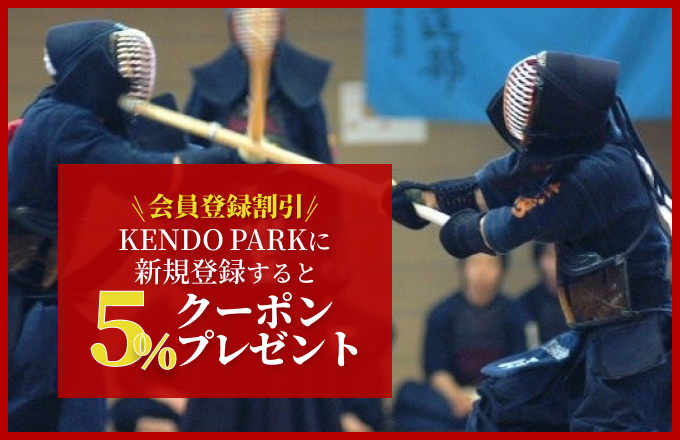
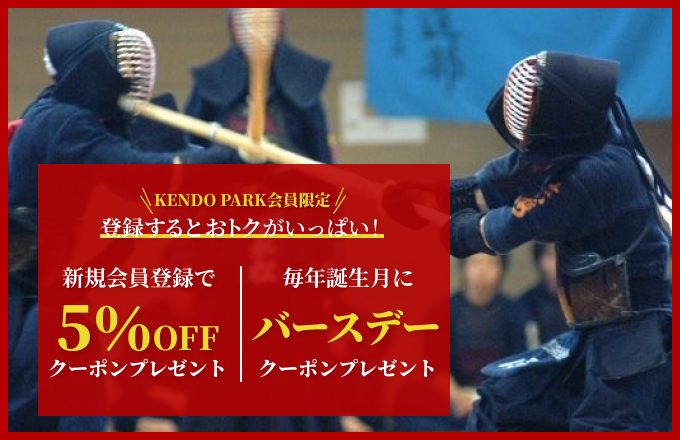
20261029　TOPページ

Changed region(s): [[0.0309, 0.3545, 0.6794, 0.9455]]

diff --git a/html/user_data/assets/css/customize.css b/html/user_data/assets/css/customize.css
@@ -65,7 +65,9 @@ a{
     width:100%;
     display: flex;
     gap: 8px;
-    justify-content: flex-end
+    justify-content: flex-end;
+    align-items: center;
+   padding-top: 10px;
 }
 .ec-cartNaviWrap .ec-cartNavi{
     position: relative;
@@ -74,6 +76,9 @@ a{
     position: absolute;
     top:8px;
     left:42px;
+}
+.ec-cartNaviWrap .ec-cartNavi img{
+    width:26px;
 }
 .ec-role {
     max-width: 1400px;
@@ -141,6 +146,12 @@ a{
 .ec-headerNaviRole__right ul li a{
     color:#333;
     text-decoration: none;
+}
+.ec-headerNav .entry img{
+    max-width:23px;
+}
+.ec-headerNav .logout img{
+    max-width:28px;
 }
 /* フッター*/
 .ec-footerRole 
